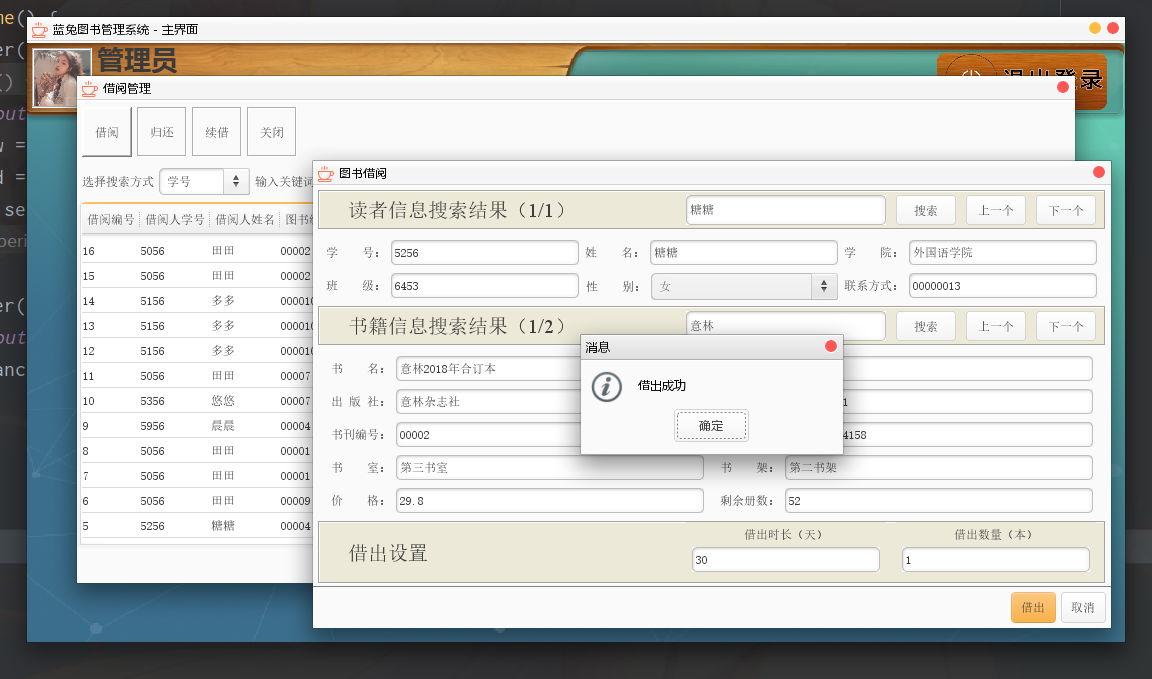
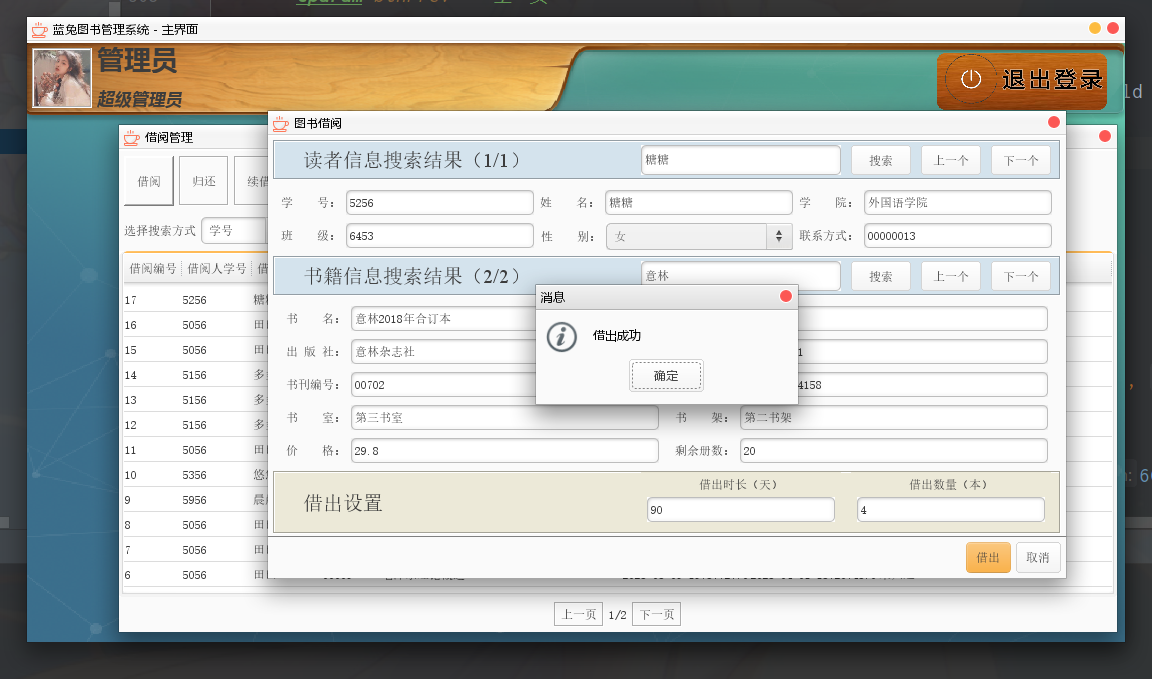
完善相关文档

diff --git a/readme.md b/readme.md
@@ -10,12 +10,13 @@
 
 ## 壹、功能
 
-1. 管理员登录、改密码、资料等
-2. 有超级权限的账号能管理其他管理员
-3. 图书信息的增删改查
-4. 能对读者的信息进行管理
-5. 借阅管理（暂停）
-6. 退出登录
+1. 管理员登录
+2. 管理员改密码、编辑资料等
+3. 有超级权限的账号能管理其他管理员
+4. 图书信息的增删改查
+5. 能对读者的信息进行管理
+6. 借阅管理：图书借出、还入和续借等
+7. 退出登录
 
 ## 贰、相关技术及开发环境
 
@@ -62,7 +63,16 @@
 <center>管理员管理：admin不是超级管理员，换了个账号，可直接改其他管理员信息（密码是MD5加密后保存的）</center>
 
 ![借阅管理](images/Snipaste_2023-03-09_09-37-47.png)
-<center>借阅管理：实现了借出、还入、续借和借阅详情查看</center>
+
+<center>借阅管理：借出</center>
+
+![借阅管理](images/Snipaste_2023-03-10_21-01-57.png)
+
+<center>借阅管理：还入</center>
+
+![image-20230310210543192](images/image-20230310210543192.png)
+
+<center>借阅管理：详情查看，还有续借等功能</center>
 
 ## 肆、数据库设计
 
@@ -231,17 +241,6 @@ public abstract class DBUtil {
 			JOptionPane.showMessageDialog(null, "服务器连接失败");
 			e.printStackTrace();
 		}
-
-//		new Thread(){
-//		    public void run(){
-//		        try {
-//		            Connection con = DriverManager.getConnection(connectString, sql_user, sql_pwd);
-//		            con.close();
-//		        } catch (SQLException e) { //连接失败
-//		            e.printStackTrace();
-//		        }
-//		    }
-//		}.start();
 		
 		return conn;
 	}
@@ -310,7 +309,9 @@ public abstract class DBUtil {
 ```
 
 只需要改SQL的地址、账号和密码就可以开始使用！**但在此之前要设计好数据库！**
-这个类在`com.bluerabbit.librarysystem.database.DBUtil`中：
+
+> 这个类在`com.bluerabbit.librarysystem.database.DBUtil`中：
+
 ```java
 	private static String url = "jdbc:mysql://localhost:3306/library_system?useUnicode=true&characterEncoding=UTF-8";
 	private static String userName = "root";
@@ -332,35 +333,30 @@ import com.bluerabbit.librarysystem.view.loginView;
 
 /**
  * 主函数，设置皮肤，启动窗口
- * @author minuy
  *
+ * @author minuhy
  */
 public class BlueRabbitLibrarySystem {
 
-	/**
-	 * @param args
-	 */
-	
-	public static void main(String[] args) {
-
-		try
-		{
-			BeautyEyeLNFHelper.frameBorderStyle = FrameBorderStyle.translucencyAppleLike;
-			org.jb2011.lnf.beautyeye.BeautyEyeLNFHelper.launchBeautyEyeLNF();
-			UIManager.put("RootPane.setupButtonVisible", false);
-		}
-		catch(Exception e)
-		{
-			System.out.println(e);
-		}
-
-
-		new loginView();
-		
-
-	}
+    /**
+     * 主函数
+     *
+     * @param args 不需要参数
+     */
+    public static void main(String[] args) {
+        try {
+            BeautyEyeLNFHelper.frameBorderStyle = FrameBorderStyle.translucencyAppleLike;
+            org.jb2011.lnf.beautyeye.BeautyEyeLNFHelper.launchBeautyEyeLNF();
+            UIManager.put("RootPane.setupButtonVisible", false);
+            BeautyEyeLNFHelper.translucencyAtFrameInactive = false; // 关闭半透明效果
+        } catch (Exception e) {
+            System.out.println("在启用皮肤时出错" + e.getMessage());
+        }
+        
+        // 开启登录界面
+        new loginView();
+    }
 }
-
 ```
 
 - 登录界面：主要负责视图的初始化和监听层的启动（其他界面一样的原理，这里以登录界面举例）
@@ -391,7 +387,7 @@ import com.bluerabbit.librarysystem.listener.LoginView_helpButton_ActionListener
 import com.bluerabbit.librarysystem.listener.LoginView_loginButton_ActionListener;
 /**
  * 登录界面
- * @author minuy
+ * @author minuhy
  *
  */
 @SuppressWarnings("serial")
@@ -567,7 +563,7 @@ import com.bluerabbit.librarysystem.view.MainView;
 import com.bluerabbit.librarysystem.view.loginView;
 /**
  * 登录界面的登录按钮监听类
- * @author minuy
+ * @author minuhy
  *
  */
 public class LoginView_loginButton_ActionListener implements ActionListener {
